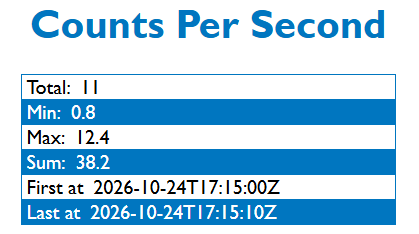
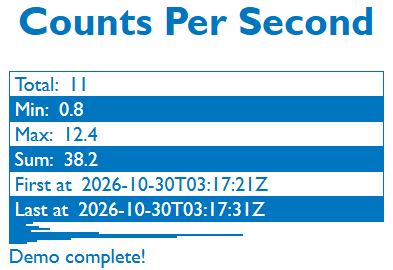
add updated demo

diff --git a/app.html b/app.html
@@ -1,0 +1,131 @@
+<!DOCTYPE html>
+<html lang="en">
+<head>
+    <meta charset="UTF-8">
+    <meta name="viewport" content="width=device-width, initial-scale=1.0">
+    <title>Radiation Viewer</title>
+    <style>
+        :root {
+            --primary-color: #0076c0;
+            --primary-border: 1px solid #0076c0;
+        }
+        h1 {
+            text-align: center;
+        }
+        body {
+            color: var(--primary-color);
+            font-family: 'Gill Sans', 'Gill Sans MT', Calibri, 'Trebuchet MS', sans-serif;
+        }
+        .content {
+            max-width: 300px;
+            margin: auto;
+        }
+        .statItems {
+            border: var(--primary-border);
+            /* single stat items already have a bottom border */
+            border-bottom: none;
+        }
+        .statItem {
+            display: flex;
+            border-bottom: var(--primary-border);
+        }
+        .statItem:nth-child(even) {
+            color: #fff;
+            background-color: var(--primary-color);
+        }
+        .statItem .label {
+            padding: 0 4px;
+            margin-right: 4px;
+        }
+        #visualization div {
+            border: var(--primary-border);
+        }
+    </style>
+</head>
+<body>
+    <!-- New reading will be submitted every second. -->
+    <div class="content">
+        <h1>Counts Per Second</h1>
+        <div class="statItems">
+            <div class="statItem">
+                <div class="label">Total:</div>
+                <div id="numberOfReadings"></div>
+            </div>
+            <div class="statItem">
+                <div class="label">Min:</div>
+                <div id="minCps"></div>
+            </div>
+            <div class="statItem">
+                <div class="label">Max:</div>
+                <div id="maxCps"></div>
+            </div>
+            <div class="statItem">
+                <div class="label">Sum:</div>
+                <div id="sumOfReadings"></div>
+            </div>
+            <div class="statItem">
+                <div class="label">First at </div>
+                <div id="firstTimestamp"></div>
+            </div>
+            <div class="statItem">
+                <div class="label">Last at </div>
+                <div id="lastTimestamp"></div>
+            </div>
+        </div>
+        <div id="visualization"></div>
+        <div id="message" class="message"></div>
+    </div>
+
+    <script>
+        // const or let, doesn't matter here technically; it's an object.
+        let data = [1.2,0.8,1.5,2.1,1.1,4.7,12.4,8.9,3.2,1.4,0.9];
+
+        // helper functions
+        const demoReader = () => data.splice(0,1)[0];
+        const timestamp = () => new Date().toISOString().split('.')[0] + 'Z';
+        const oneSecond = second => new Promise(resolve => setTimeout(resolve, 1000));
+
+        // initialize variables
+        let stats = {
+            numberOfReadings: null,
+            minCps: null,
+            maxCps: null,
+            sumOfReadings: null,
+            firstTimestamp: "",
+            lastTimestamp: ""
+        };
+
+        let reading;
+
+        const calcStats = async () => {
+            reading = await demoReader();
+            stats.firstTimestamp = timestamp();
+            stats.minCps = reading;
+
+            // coerce into boolean, stop program when there's no more readings
+            while (!!reading) {
+                      
+                stats.lastTimestamp = timestamp();          
+                stats.numberOfReadings++;
+                stats.sumOfReadings += reading;
+
+                // JS is really bad at math, this wouldn't be here if it was C++
+                stats.sumOfReadings = Math.round(stats.sumOfReadings*10)/10
+
+                if (reading < stats.minCps) stats.minCps = reading;
+                else if (reading > stats.maxCps) stats.maxCps = reading;
+
+                await oneSecond()
+                for (stat in stats) document.getElementById(stat).textContent = stats[stat];
+                visualization.innerHTML += `<div style="width:${(reading/20)*100}%"></div>`;
+
+                reading = await demoReader();
+            }
+
+            message.textContent = "Demo complete!"
+        }
+
+        calcStats();
+    </script>
+</body>
+</html>
